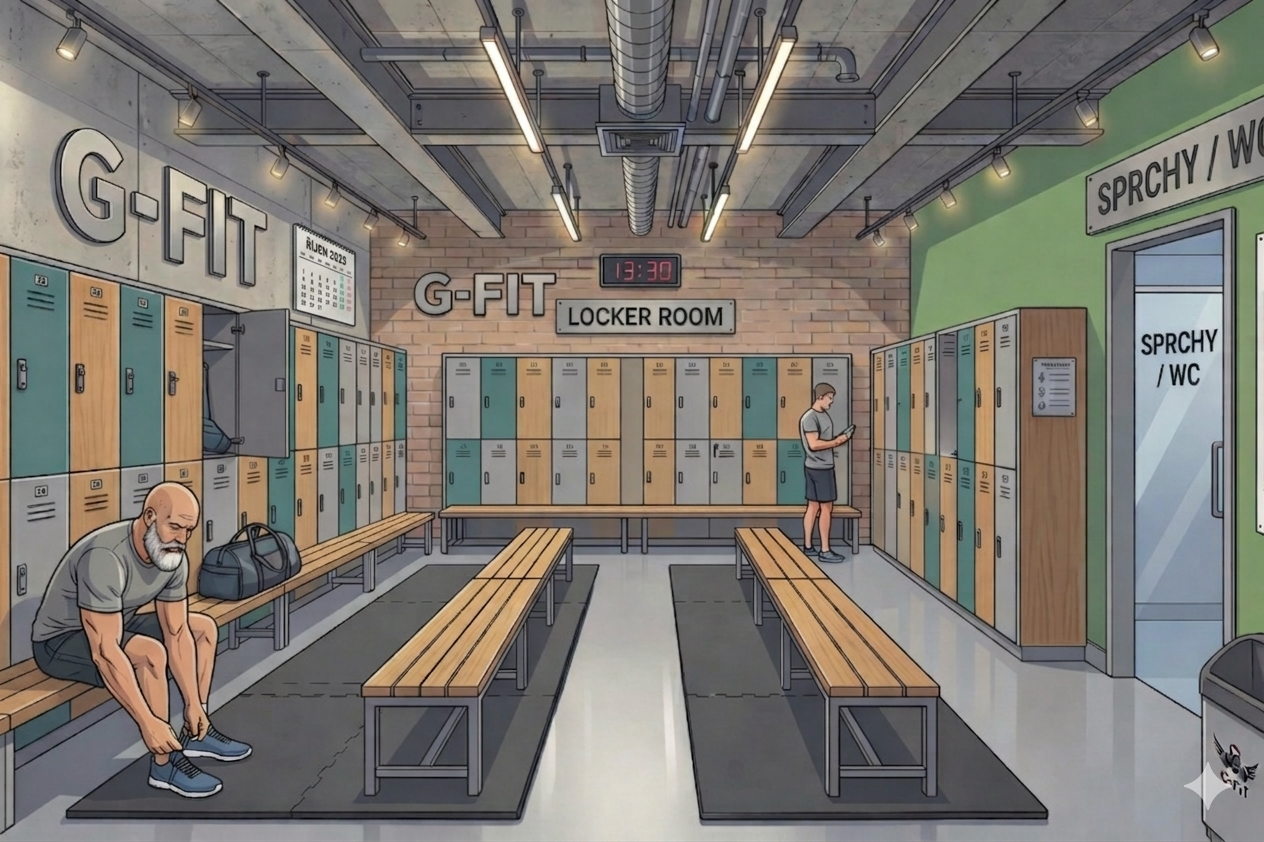
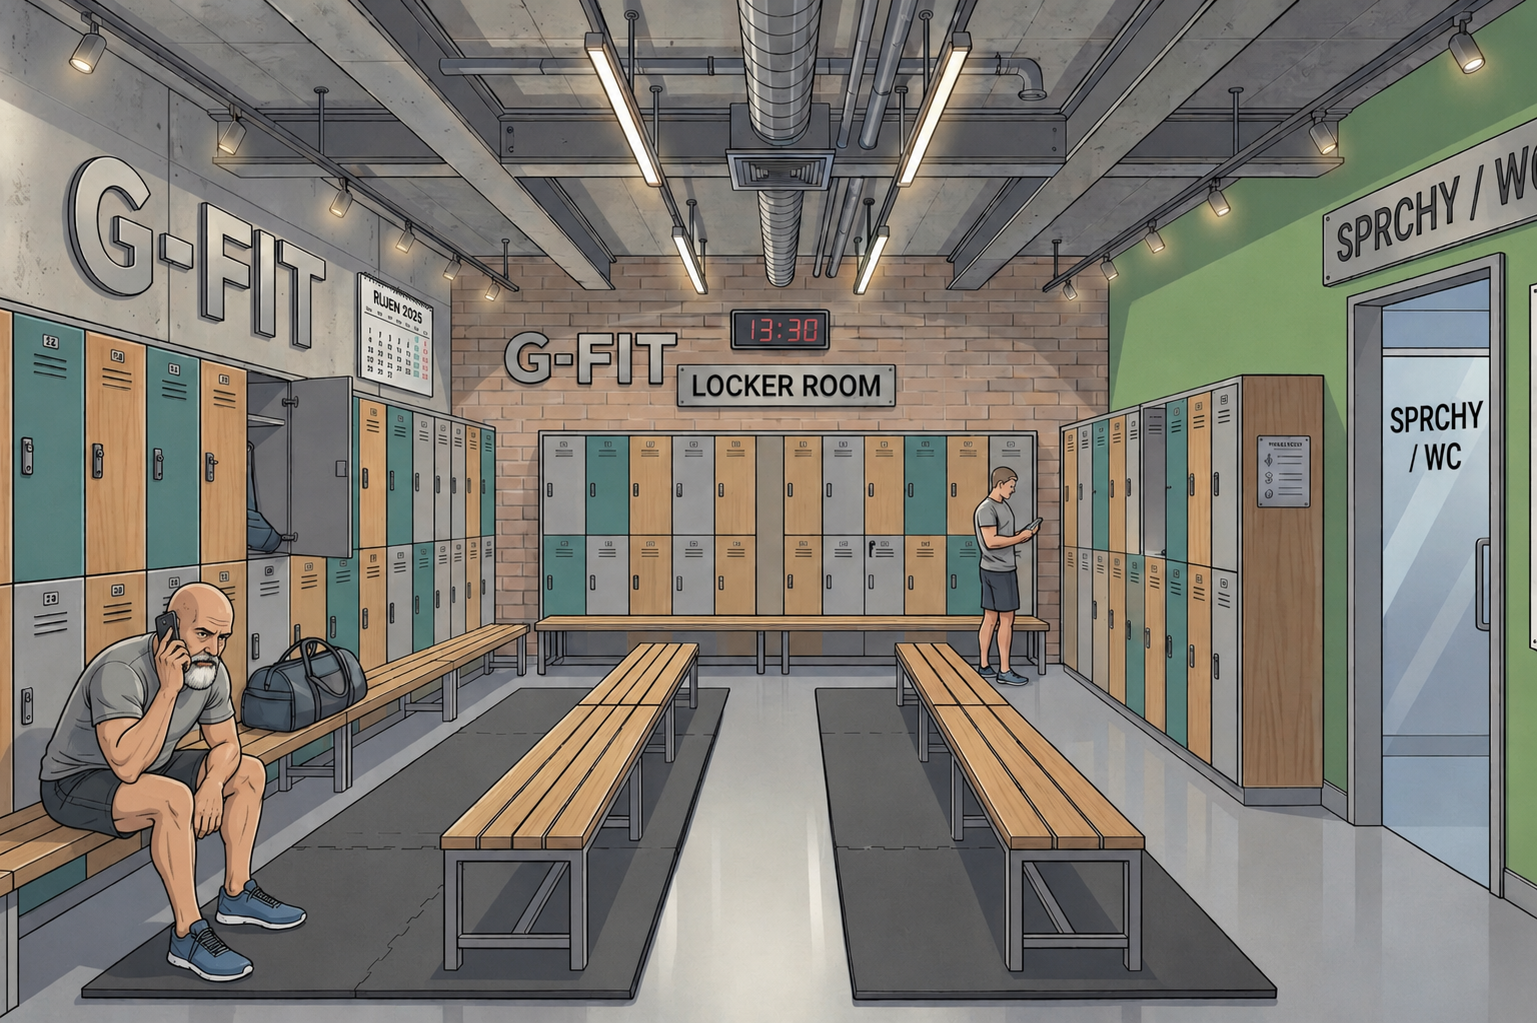
fsdafsd

diff --git a/rocnikovy_projekt/src/app/places/secret/page.js b/rocnikovy_projekt/src/app/places/secret/page.js
@@ -1,0 +1,142 @@
+"use client"
+import { useState } from "react"
+import Nav from "@/components/Nav"
+
+export default function Home() {
+    const [pinOpen, setPinOpen] = useState(false)
+    const [pin, setPin] = useState("")
+    const [status, setStatus] = useState("idle")
+
+    const handleDigit = (d) => {
+        if (pin.length >= 4) return
+        const next = pin + d
+        setPin(next)
+        if (next.length === 4) {
+            setTimeout(() => {
+                if (next === "1234") {
+                    setStatus("success")
+                    setTimeout(() => { setPinOpen(false); setPin(""); setStatus("idle") }, 900)
+                } else {
+                    setStatus("error")
+                    setTimeout(() => { setPin(""); setStatus("idle") }, 800)
+                }
+            }, 120)
+        }
+    }
+
+    return (
+        <div className="h-full w-full flex bg-[#071321] relative overflow-hidden">
+            <Nav backHref="/hra" />
+            <div className="flex-1 flex justify-center items-center mt-[-10rem]">
+                <div className="h-[40rem] w-[72rem] ml-auto mr-6 border-blue-400 border-[0.25rem] flex justify-center items-center bg-[url('/trezor.png')] bg-center bg-cover">
+                    <button
+                        id="trezor"
+                        className="w-40 h-45 absolute cursor-pointer bg-white opacity-0 mb-[2rem] ml-[1.1rem]"
+                        onClick={() => setPinOpen(true)}
+                    />
+                </div>
+            </div>
+
+            {pinOpen && (
+                <div className="fixed inset-0 z-50 flex items-center justify-center bg-black/60">
+                    <div
+                        className="relative w-[280px] ml-70 mb-40 p-7 text-center cursor-default shadow-2xl"
+                        style={{
+                            background: "#1c160a", // Tmavé, ale ne úplná tma
+                            border: "2px solid #b38728", // Zlatý rámeček, co je fakt vidět
+                        }}
+                    >
+                        <button
+                            onClick={() => { setPinOpen(false); setPin(""); setStatus("idle") }}
+                            className="absolute right-3 top-3 cursor-pointer transition-colors"
+                            style={{ color: "#b38728", fontFamily: "serif", fontSize: "18px" }}
+                            onMouseEnter={e => e.target.style.color = "#fcd34d"}
+                            onMouseLeave={e => e.target.style.color = "#b38728"}
+                        >✕</button>
+
+                        <p style={{ fontFamily: "serif", color: "#fcd34d", fontSize: "13px", letterSpacing: "0.05em", marginBottom: "2px", fontWeight: "bold" }}>BEZPEČNOSTNÍ ZÁMEK</p>
+                        <p style={{ fontFamily: "serif", color: "#d4af37", fontSize: "11px", marginBottom: "16px" }}>zadejte čtyřmístný kód</p>
+
+                        <div style={{ width: "60%", height: "1px", background: "#b38728", margin: "0 auto 16px" }} />
+
+                        <div className="flex justify-center gap-4 mb-5">
+                            {[0, 1, 2, 3].map(i => (
+                                <div key={i} style={{
+                                    width: "12px", height: "12px",
+                                    border: `2px solid ${i < pin.length ? (status === "error" ? "#ef4444" : "#fcd34d") : "#4a3b1c"}`,
+                                    background: i < pin.length ? (status === "error" ? "#ef4444" : "#d4af37") : "transparent",
+                                    transition: "all 0.15s"
+                                }} />
+                            ))}
+                        </div>
+
+                        <div className="grid grid-cols-3 gap-2 mb-1">
+                            {[1, 2, 3, 4, 5, 6, 7, 8, 9].map(n => (
+                                <button
+                                    key={n}
+                                    onClick={() => handleDigit(String(n))}
+                                    style={{
+                                        fontFamily: "serif",
+                                        fontSize: "18px",
+                                        color: "#fcd34d", // Jasná zlatá
+                                        background: "#292110", // Viditelné podkreslení tlačítek
+                                        border: "1px solid #8a6d25",
+                                        padding: "10px 0",
+                                        cursor: "pointer",
+                                        transition: "all 0.15s"
+                                    }}
+                                    onMouseEnter={e => { e.target.style.background = "#3b2f17"; e.target.style.color = "#fffbeb" }}
+                                    onMouseLeave={e => { e.target.style.background = "#292110"; e.target.style.color = "#fcd34d" }}
+                                >{n}</button>
+                            ))}
+                            <div />
+                            <button
+                                onClick={() => handleDigit("0")}
+                                style={{
+                                    fontFamily: "serif",
+                                    fontSize: "18px",
+                                    color: "#fcd34d",
+                                    background: "#292110",
+                                    border: "1px solid #8a6d25",
+                                    padding: "10px 0",
+                                    cursor: "pointer",
+                                    transition: "all 0.15s"
+                                }}
+                                onMouseEnter={e => { e.target.style.background = "#3b2f17"; e.target.style.color = "#fffbeb" }}
+                                onMouseLeave={e => { e.target.style.background = "#292110"; e.target.style.color = "#fcd34d" }}
+                            >0</button>
+                            <button
+                                onClick={() => setPin(p => p.slice(0, -1))}
+                                style={{
+                                    fontFamily: "serif",
+                                    fontSize: "16px",
+                                    color: "#d4af37",
+                                    background: "#292110",
+                                    border: "1px solid #8a6d25",
+                                    padding: "10px 0",
+                                    cursor: "pointer",
+                                    transition: "all 0.15s"
+                                }}
+                                onMouseEnter={e => { e.target.style.background = "#3b2f17"; e.target.style.color = "#ef4444" }}
+                                onMouseLeave={e => { e.target.style.background = "#292110"; e.target.style.color = "#d4af37" }}
+                            >⌫</button>
+                        </div>
+
+                        <div style={{ width: "60%", height: "1px", background: "#b38728", margin: "12px auto 8px" }} />
+
+                        <p style={{
+                            fontFamily: "serif",
+                            fontSize: "11px",
+                            minHeight: "16px",
+                            color: status === "error" ? "#ef4444" : status === "success" ? "#22c55e" : "transparent",
+                            letterSpacing: "0.05em",
+                            fontWeight: "bold"
+                        }}>
+                            {status === "error" ? "— přístup odepřen —" : status === "success" ? "— vstup povolen —" : "."}
+                        </p>
+                    </div>
+                </div>
+            )}
+        </div>
+    )
+}

diff --git a/rocnikovy_projekt/src/app/places/recepce/page.js b/rocnikovy_projekt/src/app/places/recepce/page.js
@@ -5,11 +5,25 @@ import Nav from "@/components/Nav"
 
 export default function Home() {
     const [hasMoney, setHasMoney] = useState(true)
+    const [hasHat, setHasHat] = useState(false)
+    const [showRedButton, setShowRedButton] = useState(false)
     const [showDialogue, setShowDialogue] = useState(false)
 
     const toggleDialogue = (e) => {
         e.stopPropagation()
         setShowDialogue((prev) => !prev)
+    }
+
+    const currentBackground = () => {
+        if (showRedButton) {
+            return "bg-[url('/no_money_narozky_button.png')]"
+        }
+
+        if (hasMoney) {
+            return "bg-[url('/money_narozky.png')]"
+        }
+
+        return "bg-[url('/no_money_narozky.png')]"
     }
 
     return (
@@ -21,10 +35,7 @@ export default function Home() {
 
             <div className="flex-1 flex justify-center items-center mt-[-10rem]">
                 <div
-                    className={`h-[40rem] w-[72rem] rounded-[2rem] ml-auto mr-6 border-blue-400 border-[0.25rem] flex justify-center items-center bg-center bg-cover ${hasMoney
-                            ? "bg-[url('/money_narozky.png')]"
-                            : "bg-[url('/no_money_narozky.png')]"
-                        }`}
+                    className={`h-[40rem] w-[72rem] rounded-[2rem] ml-auto mr-6 border-blue-400 border-[0.25rem] flex justify-center items-center bg-center bg-cover ${currentBackground()}`}
                 >
                     {/* bankovka */}
                     {hasMoney && (
@@ -33,6 +44,7 @@ export default function Home() {
                             onClick={(e) => {
                                 e.stopPropagation()
                                 setHasMoney(false)
+                                setHasHat(true)
                             }}
                             className="w-21 h-10 absolute cursor-pointer opacity-0 mt-[18.9rem] mr-[44.7rem]"
                         />
@@ -51,6 +63,28 @@ export default function Home() {
                         onClick={toggleDialogue}
                         className="w-28 h-48 absolute cursor-pointer opacity-0 mb-[0rem] ml-[32rem]"
                     />
+
+                    {/* cepice */}
+                    {hasHat && !showRedButton && (
+                        <button
+                            id="cepice"
+                            onClick={(e) => {
+                                e.stopPropagation()
+                                setHasHat(false)
+                                setShowRedButton(true)
+                            }}
+                            className="w-17 h-17 absolute cursor-pointer opacity-0 mt-[5rem] ml-[67rem]"
+                        />
+                    )}
+
+                    {/* red button */}
+                    {showRedButton && (
+                        <button
+                            id="red_button"
+                            onClick={toggleDialogue}
+                            className="w-13 h-13 absolute cursor-pointer opacity-0 mt-[6rem] ml-[68rem]"
+                        />
+                    )}
                 </div>
             </div>
 

diff --git a/rocnikovy_projekt/src/app/places/cardio/page.js b/rocnikovy_projekt/src/app/places/cardio/page.js
@@ -6,10 +6,16 @@ import Nav from "@/components/Nav"
 
 export default function Home() {
     const [showDialogue, setShowDialogue] = useState(false)
+    const [changed, setChanged] = useState(false)
 
     const toggleDialogue = (e) => {
         e.stopPropagation()
         setShowDialogue((prev) => !prev)
+    }
+
+    const handleClick = (e) => {
+        e.stopPropagation()
+        setChanged(true)
     }
 
     return (
@@ -20,8 +26,13 @@ export default function Home() {
             <Nav backHref="/hra" />
 
             <div className="flex-1 flex justify-center items-center mt-[-10rem]">
-                <div className="h-[40rem] w-[72rem] rounded-[2rem] ml-auto mr-6 border-blue-400 border-[0.25rem] flex justify-center items-center bg-[url('/cardio_lepsi.png')] bg-center bg-cover">
-
+                <div
+                    className={`h-[40rem] w-[72rem] rounded-[2rem] ml-auto mr-6 border-blue-400 border-[0.25rem] flex justify-center items-center bg-center bg-cover ${changed
+                            ? "bg-[url('/cardio_lepsi_button.png')]"
+                            : "bg-[url('/cardio_lepsi.png')]"
+                        }`}
+                >
+                    {/* characters */}
                     <button
                         id="cardio_girl_black"
                         onClick={toggleDialogue}
@@ -57,6 +68,24 @@ export default function Home() {
                         onClick={toggleDialogue}
                         className="w-14 h-35 absolute cursor-pointer bg-white opacity-0 mb-[4.3rem] mr-[23rem]"
                     />
+
+                    {/* hodiny */}
+                    {!changed && (
+                        <button
+                            id="hodiny"
+                            onClick={handleClick}
+                            className="w-17 h-23 absolute cursor-pointer bg-white opacity-0 mb-[27.2rem] ml-[63.5rem]"
+                        />
+                    )}
+
+                    {/* red button */}
+                    {changed && (
+                        <button
+                            id="red_button"
+                            onClick={toggleDialogue}
+                            className="w-12 h-15 absolute cursor-pointer bg-white opacity-0 mb-[27.4rem] ml-[65.1rem]"
+                        />
+                    )}
                 </div>
             </div>
 

diff --git a/rocnikovy_projekt/src/app/places/restroom/page.js b/rocnikovy_projekt/src/app/places/restroom/page.js
@@ -5,6 +5,7 @@ import Nav from "@/components/Nav"
 
 export default function Home() {
     const [showDialogue, setShowDialogue] = useState(false)
+    const [binRemoved, setBinRemoved] = useState(false)
 
     const toggleDialogue = (e) => {
         e.stopPropagation()
@@ -19,8 +20,12 @@ export default function Home() {
             <Nav backHref="/hra" />
 
             <div className="flex-1 flex justify-center items-center mt-[-10rem]">
-                <div className="h-[40rem] w-[72rem] rounded-[2rem] ml-auto mr-6 border-blue-400 border-[0.25rem] flex justify-center items-center bg-[url('/restroom.png')] bg-center bg-cover">
-
+                <div
+                    className={`h-[40rem] w-[72rem] rounded-[2rem] ml-auto mr-6 border-blue-400 border-[0.25rem] flex justify-center items-center bg-center bg-cover ${binRemoved
+                        ? "bg-[url('/restroom_changed.png')]"
+                        : "bg-[url('/restroom.png')]"
+                        }`}
+                >
                     <button
                         id="michael_olise"
                         onClick={toggleDialogue}
@@ -32,6 +37,27 @@ export default function Home() {
                         onClick={toggleDialogue}
                         className="w-50 h-90 absolute cursor-pointer bg-white opacity-0 mt-[13rem] mr-[44.5rem]"
                     />
+
+                    {/* recycle bin */}
+                    {!binRemoved && (
+                        <button
+                            id="recycle_bin"
+                            onClick={(e) => {
+                                e.stopPropagation()
+                                setBinRemoved(true)
+                            }}
+                            className="w-25 h-45 absolute cursor-pointer bg-white opacity-0 mt-[24.6rem] ml-[49.2rem]"
+                        />
+                    )}
+
+                    {/* red button */}
+                    {binRemoved && (
+                        <button
+                            id="red_button"
+                            onClick={toggleDialogue}
+                            className="w-8 h-13 absolute cursor-pointer bg-white opacity-0 mt-[26.9rem] ml-[57.4rem]"
+                        />
+                    )}
                 </div>
             </div>
 

diff --git a/rocnikovy_projekt/src/app/hra/page.js b/rocnikovy_projekt/src/app/hra/page.js
@@ -1,12 +1,12 @@
 "use client";
 import Nav from "@/components/Nav"
-import Link from "next/link" 
+import Link from "next/link"
 
 export default function Home() {
-    return(
+    return (
         <div className="h-full w-full flex bg-[#071321] relative overflow-hidden">
             <Nav />
-            
+
             <div className="flex-1 flex justify-center items-center pl-[15rem] relative">
                 <div className="h-[40rem] w-[72rem] rounded-[2rem] bg-[url('/mapa_lepsi.png')] bg-center bg-cover flex justify-center items-center">
                     <Link href="/places/recepce" className="w-10 h-10 bg-white absolute cursor-pointer opacity-0 mt-[16.2rem] mr-[21.9rem] hover:opacity-40" />
@@ -16,7 +16,7 @@ export default function Home() {
                     <Link href="/places/satna" className="w-10 h-10 bg-white absolute cursor-pointer opacity-0 mb-[17.5rem] ml-[24.8rem] hover:opacity-40" />
                     <Link href="/places/restroom" className="w-10 h-10 bg-white absolute cursor-pointer opacity-0 mt-[23.6rem] mr-[5.9rem] hover:opacity-40" />
                     <Link href="/places/funkcni" className="w-10 h-10 bg-white absolute cursor-pointer opacity-0 ml-[37.5rem] mb-[6.7rem] hover:opacity-40" />
-                    
+
                     <Link href="/places/recepce" className="w-10 h-10 bg-white absolute cursor-pointer opacity-0 mt-[13.2rem] mr-[64.9rem] hover:opacity-40" />
                     <Link href="/places/cardio" className="w-10 h-10 bg-white absolute cursor-pointer mt-[18.1rem] mr-[64.9rem] opacity-0 hover:opacity-40" />
                     <Link href="/places/volne_vahy" className="w-10 h-10 bg-white absolute cursor-pointer mr-[64.9rem] mt-[23.1rem] opacity-0 hover:opacity-40" />

diff --git a/rocnikovy_projekt/src/app/places/funkcni/page.js b/rocnikovy_projekt/src/app/places/funkcni/page.js
@@ -2,6 +2,7 @@
 
 import { useState } from "react"
 import Nav from "@/components/Nav"
+import Link from "next/link"
 
 export default function Home() {
     const [showDialogue, setShowDialogue] = useState(false)
@@ -19,7 +20,7 @@ export default function Home() {
             <Nav backHref="/hra" />
 
             <div className="flex-1 flex justify-center items-center mt-[-10rem]">
-                <div className="h-[40rem] w-[72rem] rounded-[2rem] ml-auto mr-6 border-blue-400 border-[0.25rem] flex justify-center items-center bg-[url('/funkcni_trenink.png')] bg-center bg-cover">
+                <div className="h-[40rem] w-[72rem] rounded-[2rem] ml-auto mr-6 border-blue-400 border-[0.25rem] flex justify-center items-center bg-[url('/funkcni_trenink_dvere.png')] bg-center bg-cover">
 
                     <button
                         id="borec_deadlift"
@@ -43,6 +44,12 @@ export default function Home() {
                         id="borec_kettlebell"
                         onClick={toggleDialogue}
                         className="w-30 h-70 absolute cursor-pointer bg-white opacity-0 mt-[12rem] mr-[15rem]"
+                    />
+
+                    <Link
+                        href="/places/secret"
+                        id="dvere"
+                        className="w-25 h-37 absolute cursor-pointer bg-white opacity-0 mb-[7.4rem] ml-[2.5rem]"
                     />
                 </div>
             </div>
